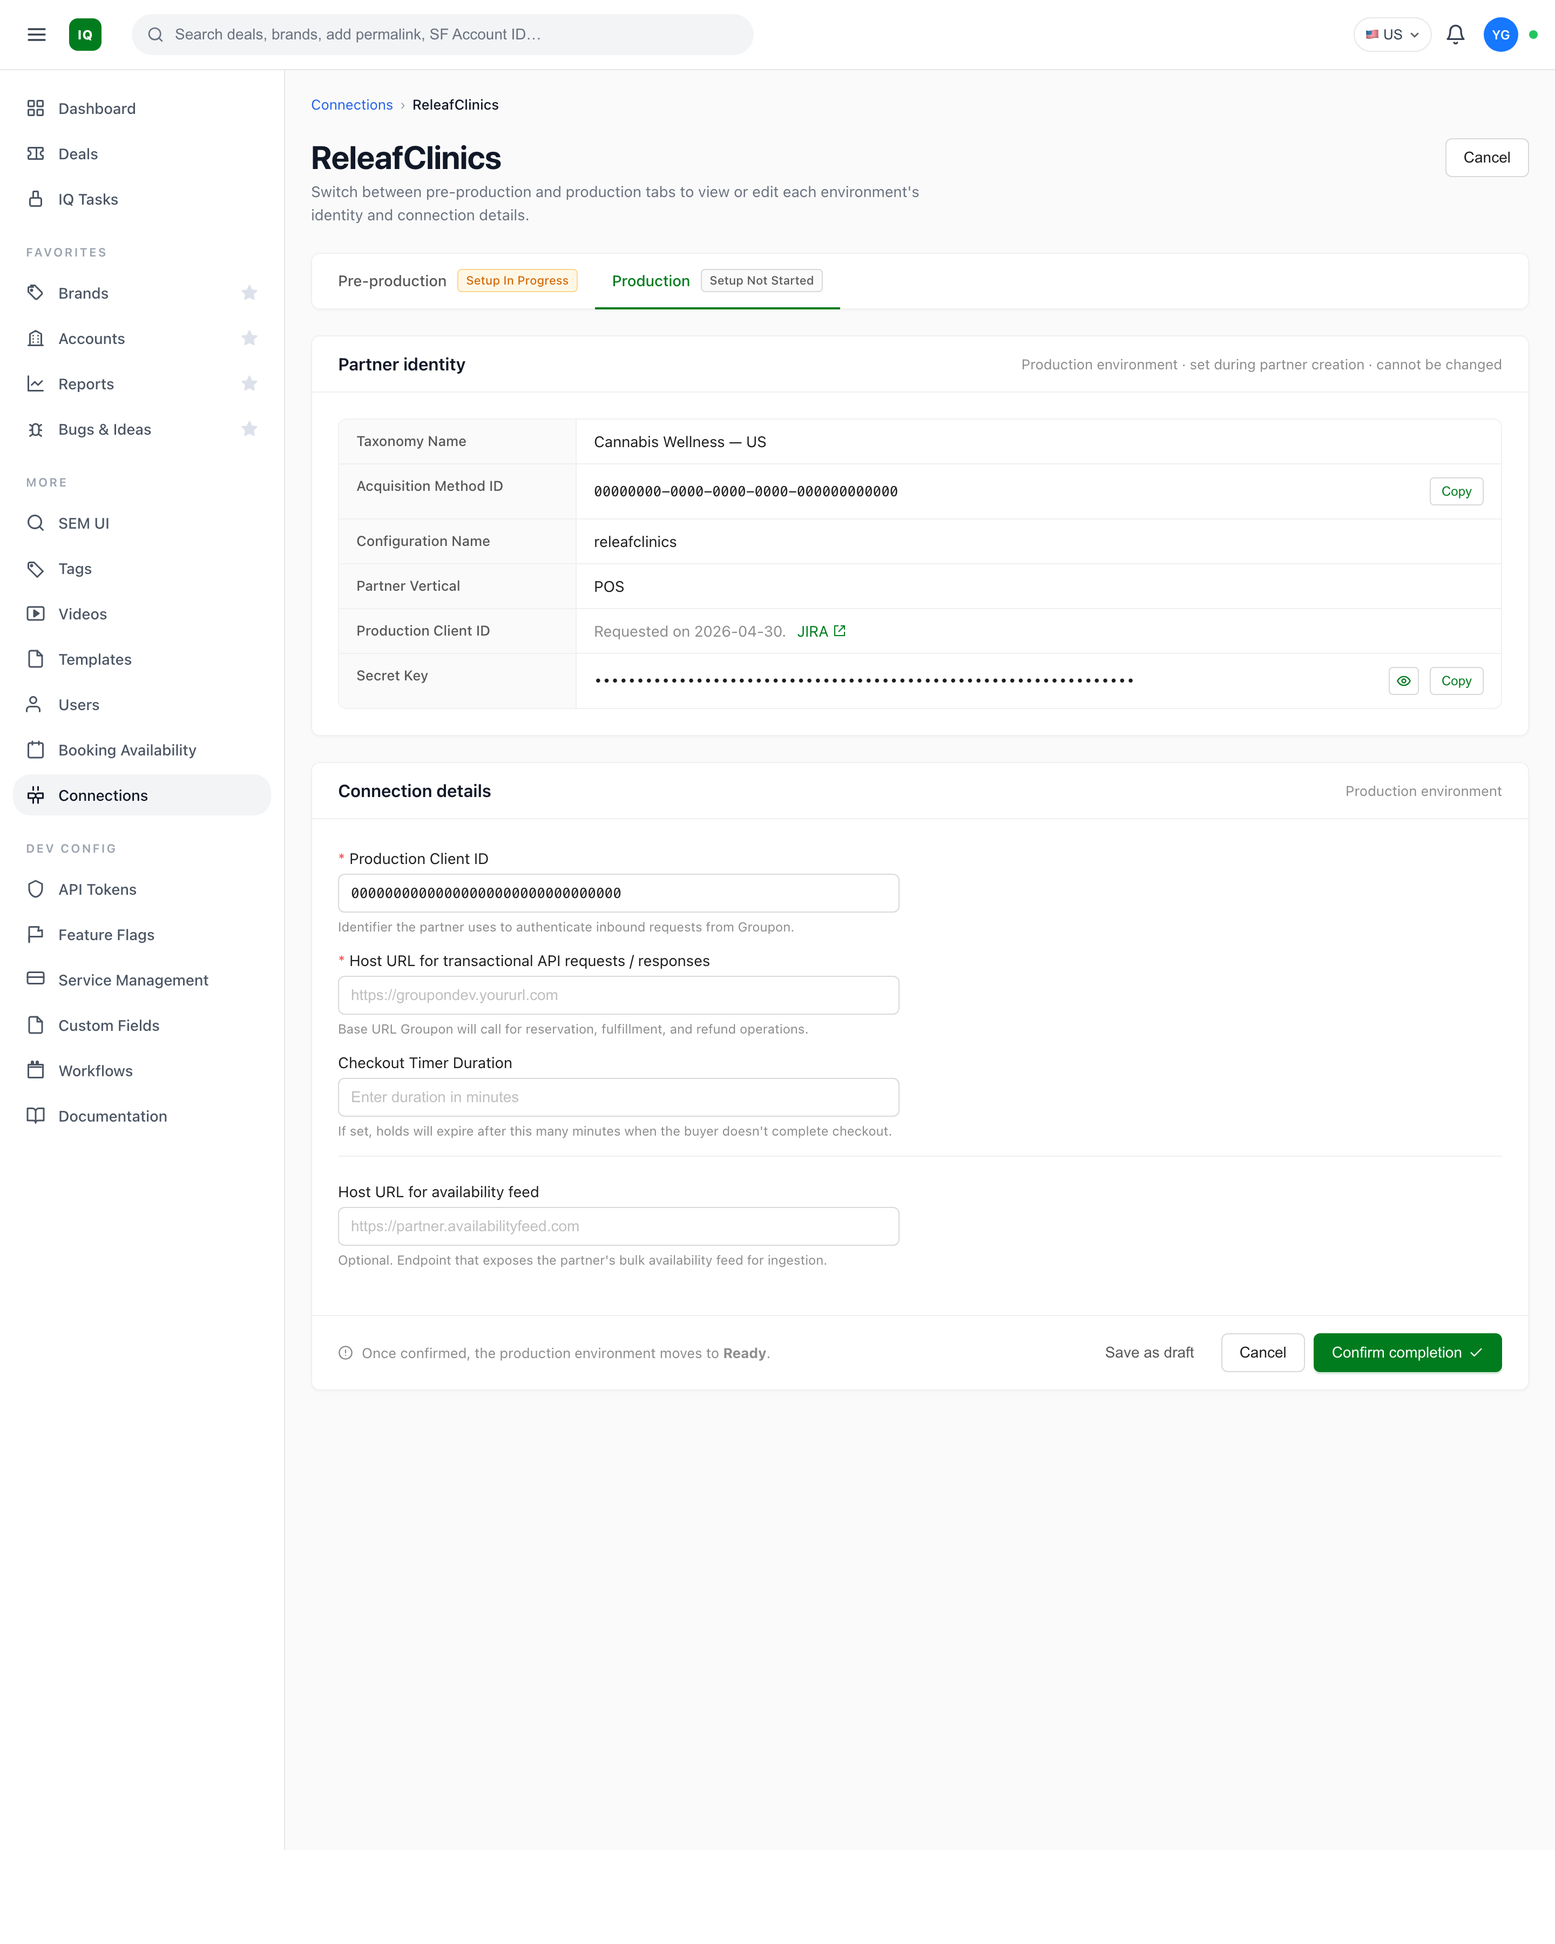
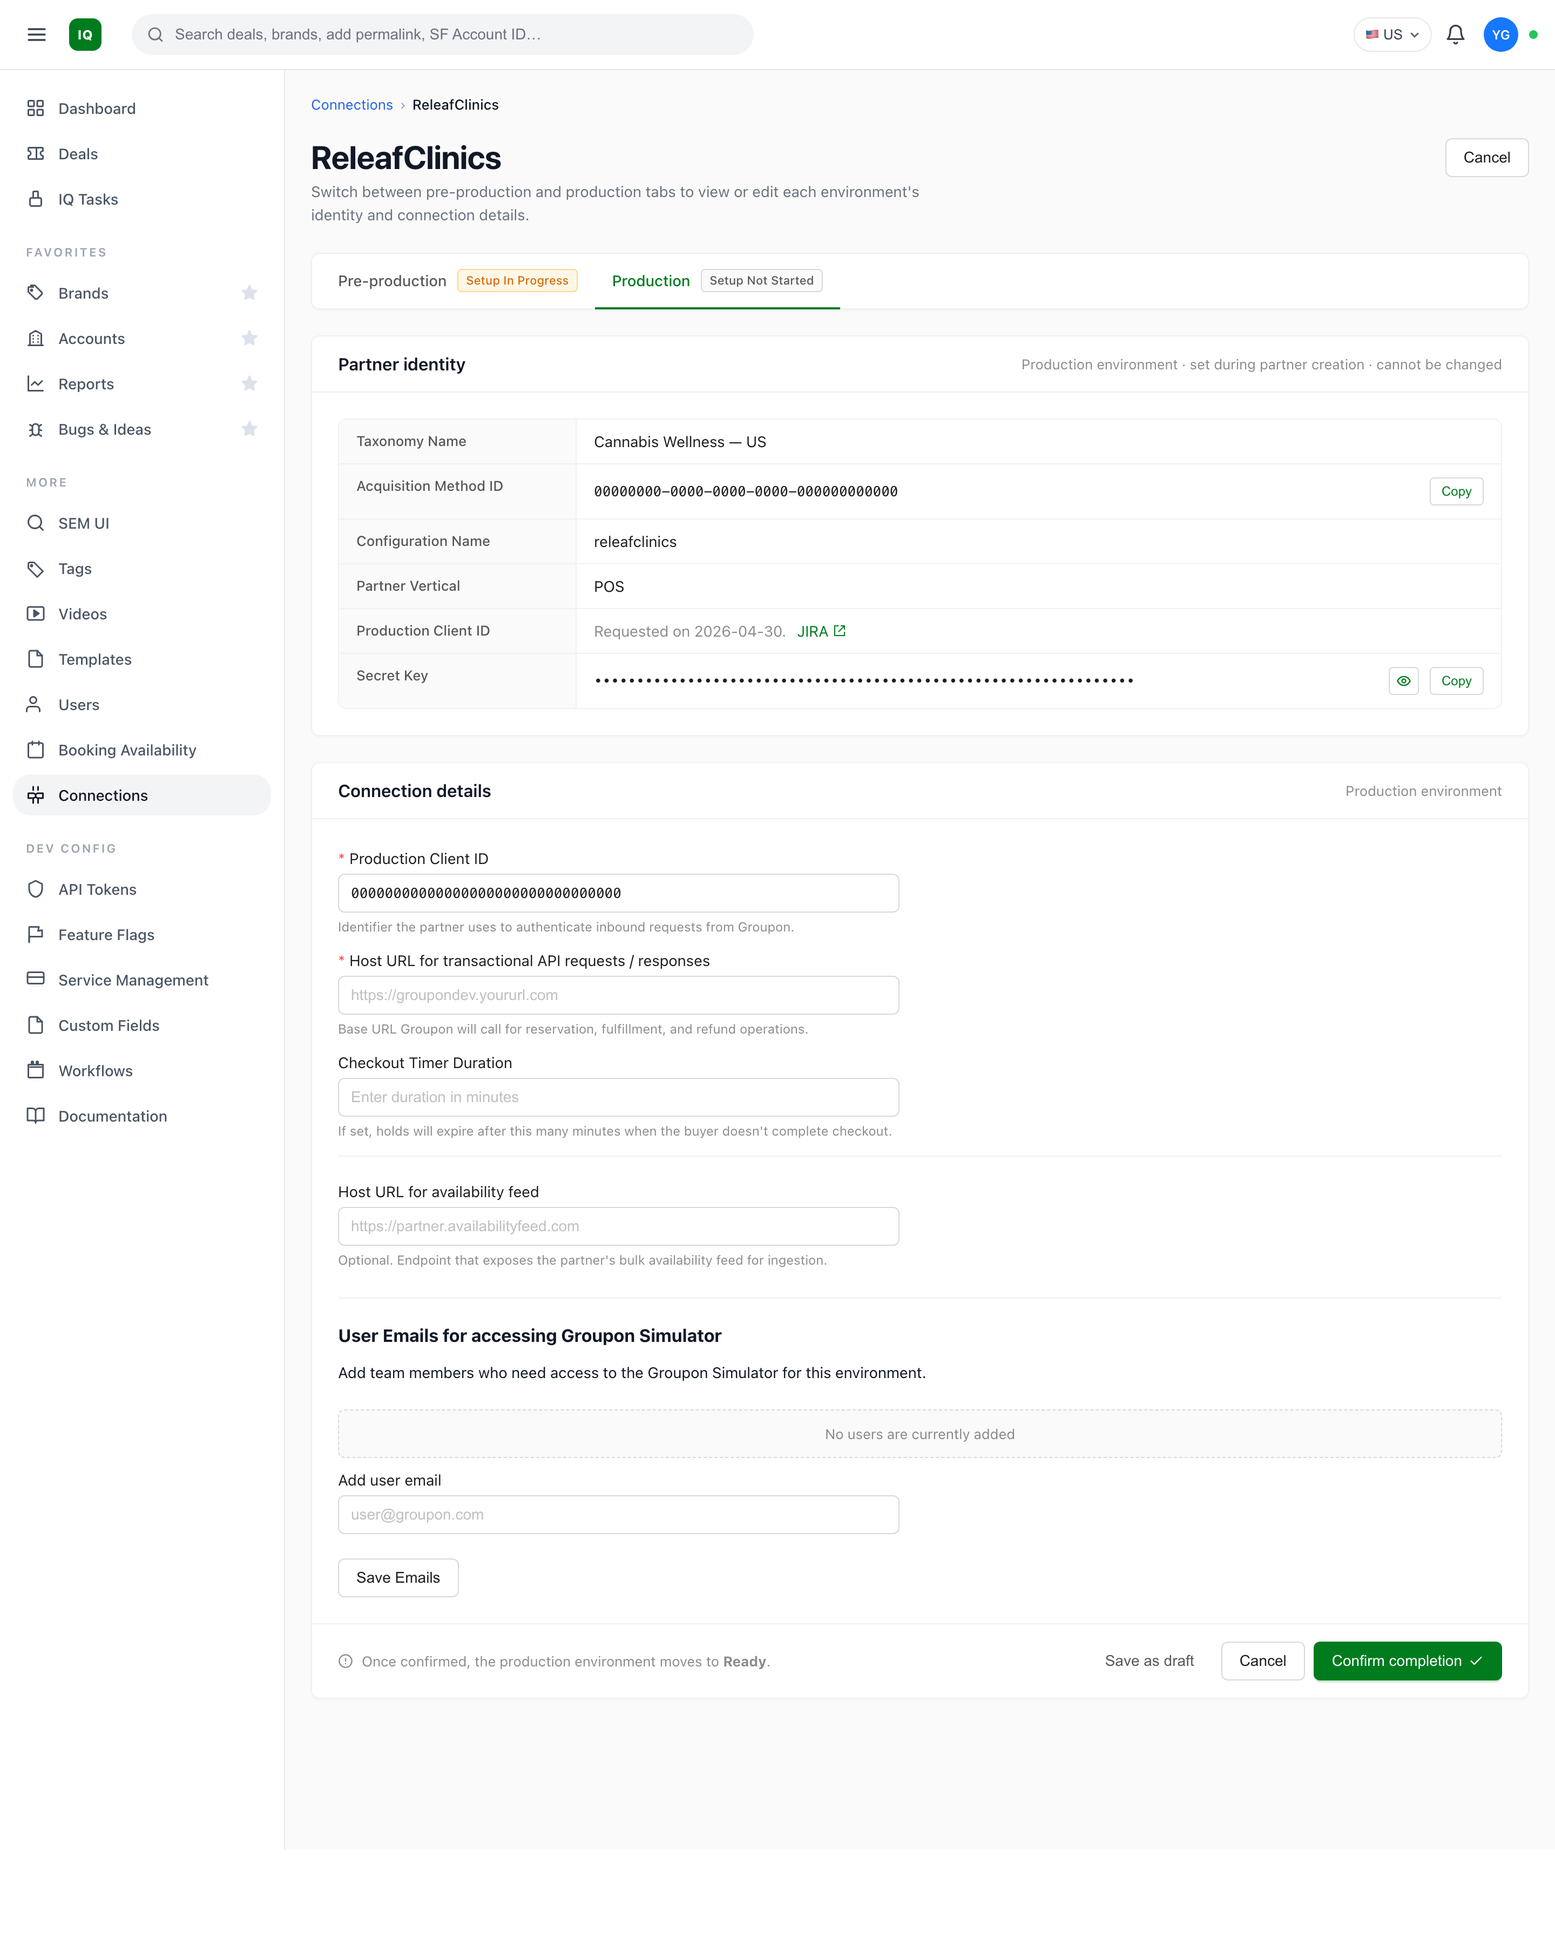
Edit page: per-env User Emails. Wizard: Custom integration with endpoint map
Edit page:
- Added "User Emails for accessing Groupon Simulator" section inside the
  Connection details card body, after the form fields and divider.
- Per-env email lists: pre-prod has 1 sample email, prod starts empty so the
  empty-state ("No users are currently added") is visible. Switching tabs
  swaps the visible list.
- Add via Save Emails button or Enter key. Remove by clicking the X on any
  green chip. Same email validation as the wizard. Email modifications are
  scoped to the currently active env.

Wizard Step 1:
- Added CUSTOM as a third option to Integration Type dropdown (now:
  GROUPON_CONNECT, OCTO, CUSTOM).

Wizard Step 2 — conditional content based on Integration Type:
- Default mode (GROUPON_CONNECT or OCTO selected): the existing two URL
  inputs (Host URL transactional + Host URL availability feed).
- CUSTOM mode (when CUSTOM selected): an editable Endpoint Name + Endpoint
  URL table. Two starter rows pre-populated (reservation, fulfillment).
  "+ Add Another Endpoint" button appends a new row. Remove link deletes
  a row (keeps at least one row, clearing it instead of removing).
- Mode applied on page load and re-applied whenever Integration Type changes.

CSS:
- Renamed/aliased .deals-tbl rules to also cover the new .kv-tbl class so
  the endpoints table reuses identical styling.

Changed region(s): [[0.2188, 0.6844, 0.5, 0.7156], [0.8438, 0.84, 0.9688, 0.8711], [0.8438, 0.6844, 0.9688, 0.7156]]

diff --git a/iq-setup-new-partner-mockup.html b/iq-setup-new-partner-mockup.html
@@ -205,23 +205,26 @@
   #checkoutTimerField  { grid-column: 2; }
   #parentPartnerField  { grid-column: 3; }
 
-  /* ===== Deals table (Step 3) ===== */
-  .deals-tbl {
+  /* ===== Editable key-value table (used for endpoints and other lists) ===== */
+  .deals-tbl, .kv-tbl {
     width: 100%; border: 1px solid var(--antd-bd-soft); border-radius: 8px;
     border-collapse: separate; border-spacing: 0; overflow: hidden;
   }
-  .deals-tbl th, .deals-tbl td {
+  .deals-tbl th, .deals-tbl td,
+  .kv-tbl  th, .kv-tbl  td {
     padding: 10px 14px; border-bottom: 1px solid var(--antd-bd-soft);
     text-align: left; vertical-align: middle;
   }
-  .deals-tbl thead th {
+  .deals-tbl thead th, .kv-tbl thead th {
     background: #fafafa; font-weight: 600; font-size: 12px;
     color: var(--antd-text); text-transform: none;
   }
-  .deals-tbl tbody tr:last-child td { border-bottom: none; }
-  .deals-tbl input.input, .deals-tbl select.select { margin: 0; }
-  .deals-tbl .link { color: var(--groupon-green); cursor: pointer; font-weight: 500; }
-  .deals-tbl .link:hover { text-decoration: underline; }
+  .deals-tbl tbody tr:last-child td,
+  .kv-tbl  tbody tr:last-child td { border-bottom: none; }
+  .deals-tbl input.input, .deals-tbl select.select,
+  .kv-tbl  input.input, .kv-tbl  select.select { margin: 0; }
+  .deals-tbl .link, .kv-tbl .link { color: var(--groupon-green); cursor: pointer; font-weight: 500; }
+  .deals-tbl .link:hover, .kv-tbl .link:hover { text-decoration: underline; }
 
   /* ===== Email chips ===== */
   .email-chips { display: flex; flex-wrap: wrap; gap: 8px; }
@@ -596,10 +599,11 @@
               </div>
               <div class="field">
                 <label><span class="req">*</span>Integration Type</label>
-                <select class="select placeholder">
+                <select id="integrationTypeSelect" class="select placeholder">
                   <option value="">Please select Integration Type</option>
                   <option value="GROUPON_CONNECT">GROUPON_CONNECT</option>
                   <option value="OCTO">OCTO</option>
+                  <option value="CUSTOM">CUSTOM</option>
                 </select>
               </div>
             </div>
@@ -673,20 +677,57 @@
             <!-- Step 2 content -->
             <div class="step-content step-2">
 
-              <div class="form-row one">
-                <div class="field">
-                  <label><span class="req">*</span>Host URL for transactional API requests / responses</label>
-                  <input class="input" placeholder="https://groupondev.yoururl.com" />
-                  <span class="hint">Base URL Groupon will call for reservation, fulfillment, and refund operations.</span>
+              <!-- Default mode: shown when Integration Type != CUSTOM -->
+              <div id="step2Default">
+                <div class="form-row one">
+                  <div class="field">
+                    <label><span class="req">*</span>Host URL for transactional API requests / responses</label>
+                    <input class="input" placeholder="https://groupondev.yoururl.com" />
+                    <span class="hint">Base URL Groupon will call for reservation, fulfillment, and refund operations.</span>
+                  </div>
+                </div>
+
+                <div class="form-row one">
+                  <div class="field">
+                    <label><span class="req">*</span>Host URL for availability feed</label>
+                    <input class="input" placeholder="https://partner.availabilityfeed.com" />
+                    <span class="hint">Endpoint that exposes the partner's bulk availability feed for ingestion.</span>
+                  </div>
                 </div>
               </div>
 
-              <div class="form-row one">
-                <div class="field">
-                  <label><span class="req">*</span>Host URL for availability feed</label>
-                  <input class="input" placeholder="https://partner.availabilityfeed.com" />
-                  <span class="hint">Endpoint that exposes the partner's bulk availability feed for ingestion.</span>
+              <!-- Custom mode: shown when Integration Type == CUSTOM -->
+              <div id="step2Custom" style="display: none;">
+                <div class="alert" style="margin-bottom: 16px;">
+                  <span class="icn"><svg viewBox="0 0 24 24"><circle cx="12" cy="12" r="10"/><line x1="12" y1="8" x2="12" y2="12"/><line x1="12" y1="16" x2="12.01" y2="16"/></svg></span>
+                  <span>You selected <b>CUSTOM</b> integration. Add each partner endpoint as a name + URL pair below.</span>
                 </div>
+
+                <table class="kv-tbl">
+                  <thead>
+                    <tr>
+                      <th style="width: 30%;">Endpoint Name</th>
+                      <th>Endpoint URL</th>
+                      <th style="width: 100px;">Actions</th>
+                    </tr>
+                  </thead>
+                  <tbody id="endpointsTbody">
+                    <tr>
+                      <td><input class="input" placeholder="reservation" /></td>
+                      <td><input class="input" placeholder="https://partner.com/api/reservation" /></td>
+                      <td><a class="link remove-endpoint" href="#">Remove</a></td>
+                    </tr>
+                    <tr>
+                      <td><input class="input" placeholder="fulfillment" /></td>
+                      <td><input class="input" placeholder="https://partner.com/api/fulfillment" /></td>
+                      <td><a class="link remove-endpoint" href="#">Remove</a></td>
+                    </tr>
+                  </tbody>
+                </table>
+                <button id="addEndpointBtn" class="btn" style="margin-top: 12px;">
+                  <svg width="14" height="14" viewBox="0 0 24 24" fill="none" stroke="currentColor" stroke-width="2" stroke-linecap="round" stroke-linejoin="round"><line x1="12" y1="5" x2="12" y2="19"/><line x1="5" y1="12" x2="19" y2="12"/></svg>
+                  Add Another Endpoint
+                </button>
               </div>
 
             </div>
@@ -809,6 +850,59 @@
   populateCountries(getCheckedValue('regionRadios') || 'NA');
   if (timerField)  timerField.style.display  = getCheckedValue('timerRadios')  === 'yes' ? '' : 'none';
   if (parentField) parentField.style.display = getCheckedValue('secretRadios') === 'no'  ? '' : 'none';
+
+  // ===== Step 2 mode: default vs CUSTOM (driven by Integration Type) =====
+  const integrationSelect = document.getElementById('integrationTypeSelect');
+  const step2Default = document.getElementById('step2Default');
+  const step2Custom  = document.getElementById('step2Custom');
+
+  function applyStep2Mode() {
+    if (!integrationSelect || !step2Default || !step2Custom) return;
+    const isCustom = integrationSelect.value === 'CUSTOM';
+    step2Default.style.display = isCustom ? 'none' : '';
+    step2Custom.style.display  = isCustom ? '' : 'none';
+  }
+
+  if (integrationSelect) {
+    integrationSelect.addEventListener('change', applyStep2Mode);
+    applyStep2Mode(); // initial state
+  }
+
+  // Add / Remove custom endpoint rows
+  const endpointsTbody = document.getElementById('endpointsTbody');
+  const addEndpointBtn = document.getElementById('addEndpointBtn');
+
+  function buildEndpointRow() {
+    const tr = document.createElement('tr');
+    tr.innerHTML =
+      '<td><input class="input" placeholder="endpoint name" /></td>' +
+      '<td><input class="input" placeholder="https://partner.com/api/..." /></td>' +
+      '<td><a class="link remove-endpoint" href="#">Remove</a></td>';
+    return tr;
+  }
+
+  if (addEndpointBtn && endpointsTbody) {
+    addEndpointBtn.addEventListener('click', () => {
+      endpointsTbody.appendChild(buildEndpointRow());
+    });
+  }
+
+  if (endpointsTbody) {
+    endpointsTbody.addEventListener('click', (e) => {
+      const link = e.target.closest('.remove-endpoint');
+      if (!link) return;
+      e.preventDefault();
+      const row = link.closest('tr');
+      if (!row) return;
+      const remaining = endpointsTbody.querySelectorAll('tr').length;
+      if (remaining <= 1) {
+        // keep at least one row, just clear it
+        row.querySelectorAll('input').forEach(i => i.value = '');
+      } else {
+        row.remove();
+      }
+    });
+  }
 
   // Checkbox: toggle .checked
   document.querySelectorAll('.checkbox').forEach(cb => {

diff --git a/iq-edit-partner-config-mockup.html b/iq-edit-partner-config-mockup.html
@@ -246,6 +246,28 @@
     min-width: 0;
   }
   .descriptions-value.secret-cell .copy-btn { margin-left: 0; }
+
+  /* ===== Email chips (User Emails section) ===== */
+  .email-chips { display: flex; flex-wrap: wrap; gap: 8px; }
+  .email-chip {
+    display: inline-flex; align-items: center; gap: 8px;
+    height: 28px; padding: 0 6px 0 12px; border-radius: 14px;
+    background: #f6ffed; border: 1px solid #b7eb8f; color: #389e0d;
+    font-size: 13px; font-weight: 500;
+  }
+  .email-chip-remove {
+    width: 18px; height: 18px; border-radius: 50%;
+    display: inline-flex; align-items: center; justify-content: center;
+    cursor: pointer; opacity: 0.7; font-size: 14px; line-height: 1;
+    background: transparent; border: 0; color: inherit;
+  }
+  .email-chip-remove:hover { opacity: 1; background: #d9f7be; }
+  .empty-state {
+    padding: 14px 16px; text-align: center; color: var(--antd-text-3);
+    background: #fafafa; border: 1px dashed var(--antd-bd); border-radius: 6px;
+    font-size: 13px;
+  }
+  .empty-state.hidden { display: none; }
   .descriptions-value .ext-link {
     color: var(--antd-blue); display: inline-flex; align-items: center; gap: 4px;
   }
@@ -486,6 +508,25 @@
               </div>
             </div>
 
+            <div class="divider"></div>
+
+            <h3 class="form-section-title">User Emails for accessing Groupon Simulator</h3>
+            <p class="form-section-help">Add team members who need access to the Groupon Simulator for this environment.</p>
+
+            <div id="emailChips" class="email-chips" style="margin-bottom: 12px;"></div>
+            <div id="emailEmpty" class="empty-state">No users are currently added</div>
+
+            <div class="form-row" style="margin-top: 12px; align-items: end;">
+              <div class="field" style="margin-bottom: 0;">
+                <label>Add user email</label>
+                <input id="emailInput" class="input" placeholder="user@groupon.com" />
+              </div>
+              <div class="field" style="margin-bottom: 0;">
+                <label style="visibility: hidden;">_</label>
+                <button id="saveEmailsBtn" class="btn" style="width: fit-content;">Save Emails</button>
+              </div>
+            </div>
+
           </div>
 
           <!-- Footer / actions -->
@@ -527,6 +568,7 @@
       hostUrlAvailPlaceholder: 'https://preprod-feed.releafclinics.com',
       footerNote:          'Once confirmed, the pre-production environment moves to <b>Certified</b>.',
[1 lines of base64/hex data omitted]
+      userEmails:          ['ygagneja@groupon.com'],
     },
     prod: {
       identityMeta:        'Production environment · set during partner creation · cannot be changed',
@@ -542,6 +584,7 @@
       hostUrlAvailPlaceholder: 'https://partner.availabilityfeed.com',
       footerNote:          'Once confirmed, the production environment moves to <b>Ready</b>.',
[1 lines of base64/hex data omitted]
+      userEmails:          [],
     },
   };
 
@@ -576,6 +619,23 @@
     btn.title      = secretShown ? 'Hide' : 'Show';
   }
 
+  function renderEmails() {
+    const chips = document.getElementById('emailChips');
+    const empty = document.getElementById('emailEmpty');
+    if (!chips || !empty) return;
+    const list = envData[currentEnv].userEmails || [];
+    chips.innerHTML = '';
+    list.forEach(email => {
+      const chip = document.createElement('span');
+      chip.className = 'email-chip';
+      const safe = email.replace(/[<>&]/g, c => ({'<':'&lt;','>':'&gt;','&':'&amp;'}[c]));
+      chip.innerHTML = '<span>' + safe + '</span>' +
+        '<button class="email-chip-remove" data-email="' + safe + '" title="Remove">×</button>';
+      chips.appendChild(chip);
+    });
+    empty.classList.toggle('hidden', list.length > 0);
+  }
+
   function applyEnv(envKey) {
     currentEnv = envKey;
     secretShown = false; // hide secret on env switch for safety
@@ -593,6 +653,7 @@
     setPh  ('hostUrlAvailInput',d.hostUrlAvailPlaceholder);
     setHTML('footerNote',       d.footerNote);
     renderSecret();
+    renderEmails();
   }
 
   // Tab click: toggle active + apply env data
@@ -614,8 +675,53 @@
     });
   }
 
-  // Initial render: ensure mask is shown
+  // ===== User Emails (per-env) =====
+  const emailInput   = document.getElementById('emailInput');
+  const saveEmailsBtn = document.getElementById('saveEmailsBtn');
+  const emailChips   = document.getElementById('emailChips');
+
+  function addEmailToCurrentEnv(value) {
+    const trimmed = (value || '').trim();
+    if (!trimmed) return;
+    if (!/^[^\s@]+@[^\s@]+\.[^\s@]+$/.test(trimmed)) {
+      alert('Please enter a valid email address.');
+      return;
+    }
+    const list = envData[currentEnv].userEmails;
+    if (list.includes(trimmed)) return;
+    list.push(trimmed);
+    renderEmails();
+  }
+
+  if (saveEmailsBtn) {
+    saveEmailsBtn.addEventListener('click', () => {
+      addEmailToCurrentEnv(emailInput.value);
+      emailInput.value = '';
+    });
+  }
+  if (emailInput) {
+    emailInput.addEventListener('keydown', e => {
+      if (e.key === 'Enter') {
+        e.preventDefault();
+        addEmailToCurrentEnv(emailInput.value);
+        emailInput.value = '';
+      }
+    });
+  }
+  if (emailChips) {
+    emailChips.addEventListener('click', e => {
+      const btn = e.target.closest('.email-chip-remove');
+      if (!btn) return;
+      const list = envData[currentEnv].userEmails;
+      const idx  = list.indexOf(btn.dataset.email);
+      if (idx >= 0) list.splice(idx, 1);
+      renderEmails();
+    });
+  }
+
+  // Initial render: ensure mask is shown + emails populated for default env
   renderSecret();
+  renderEmails();
 })();
 </script>
 
